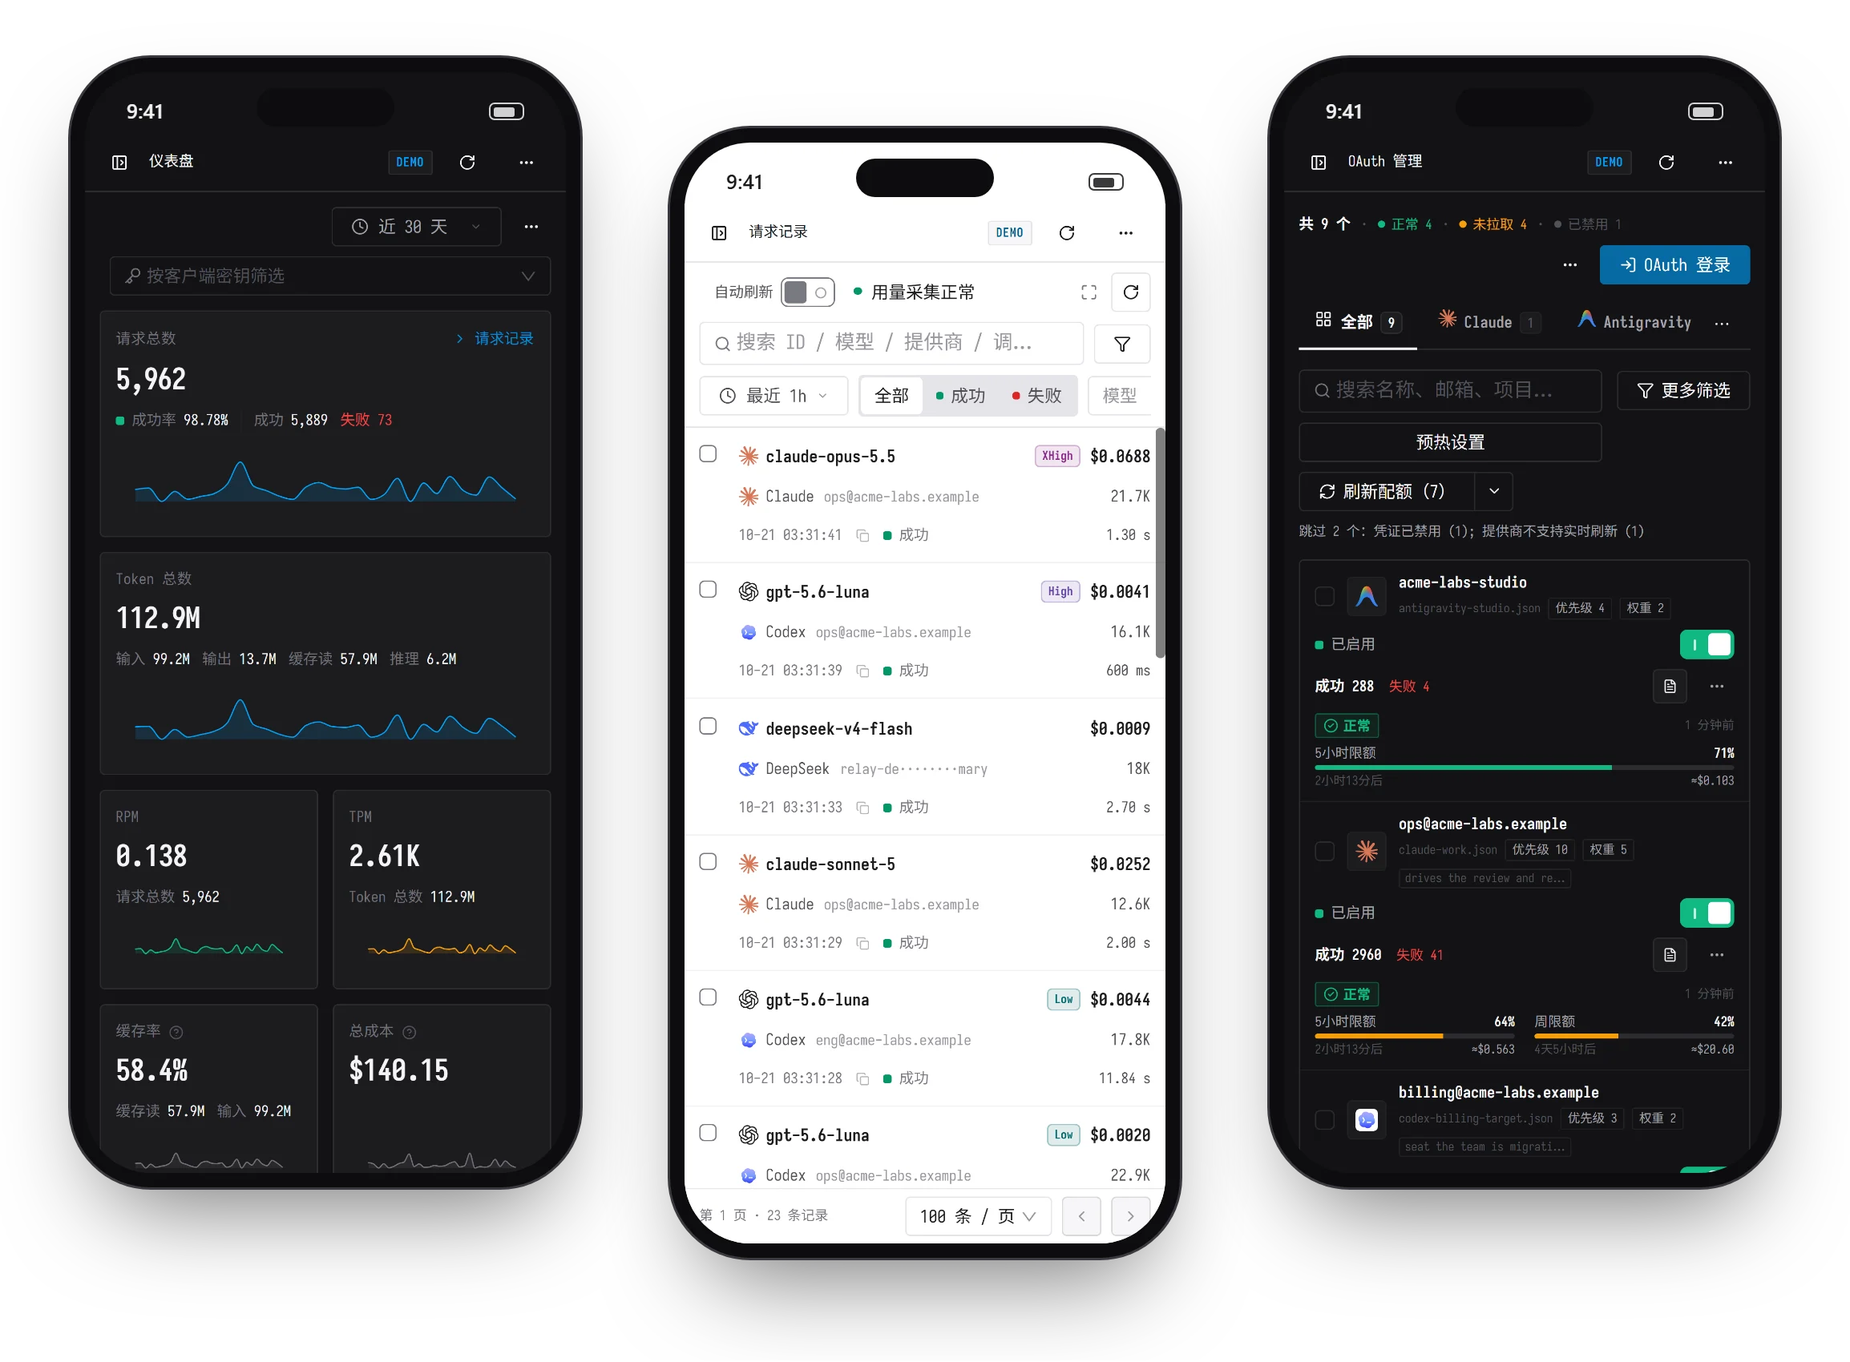
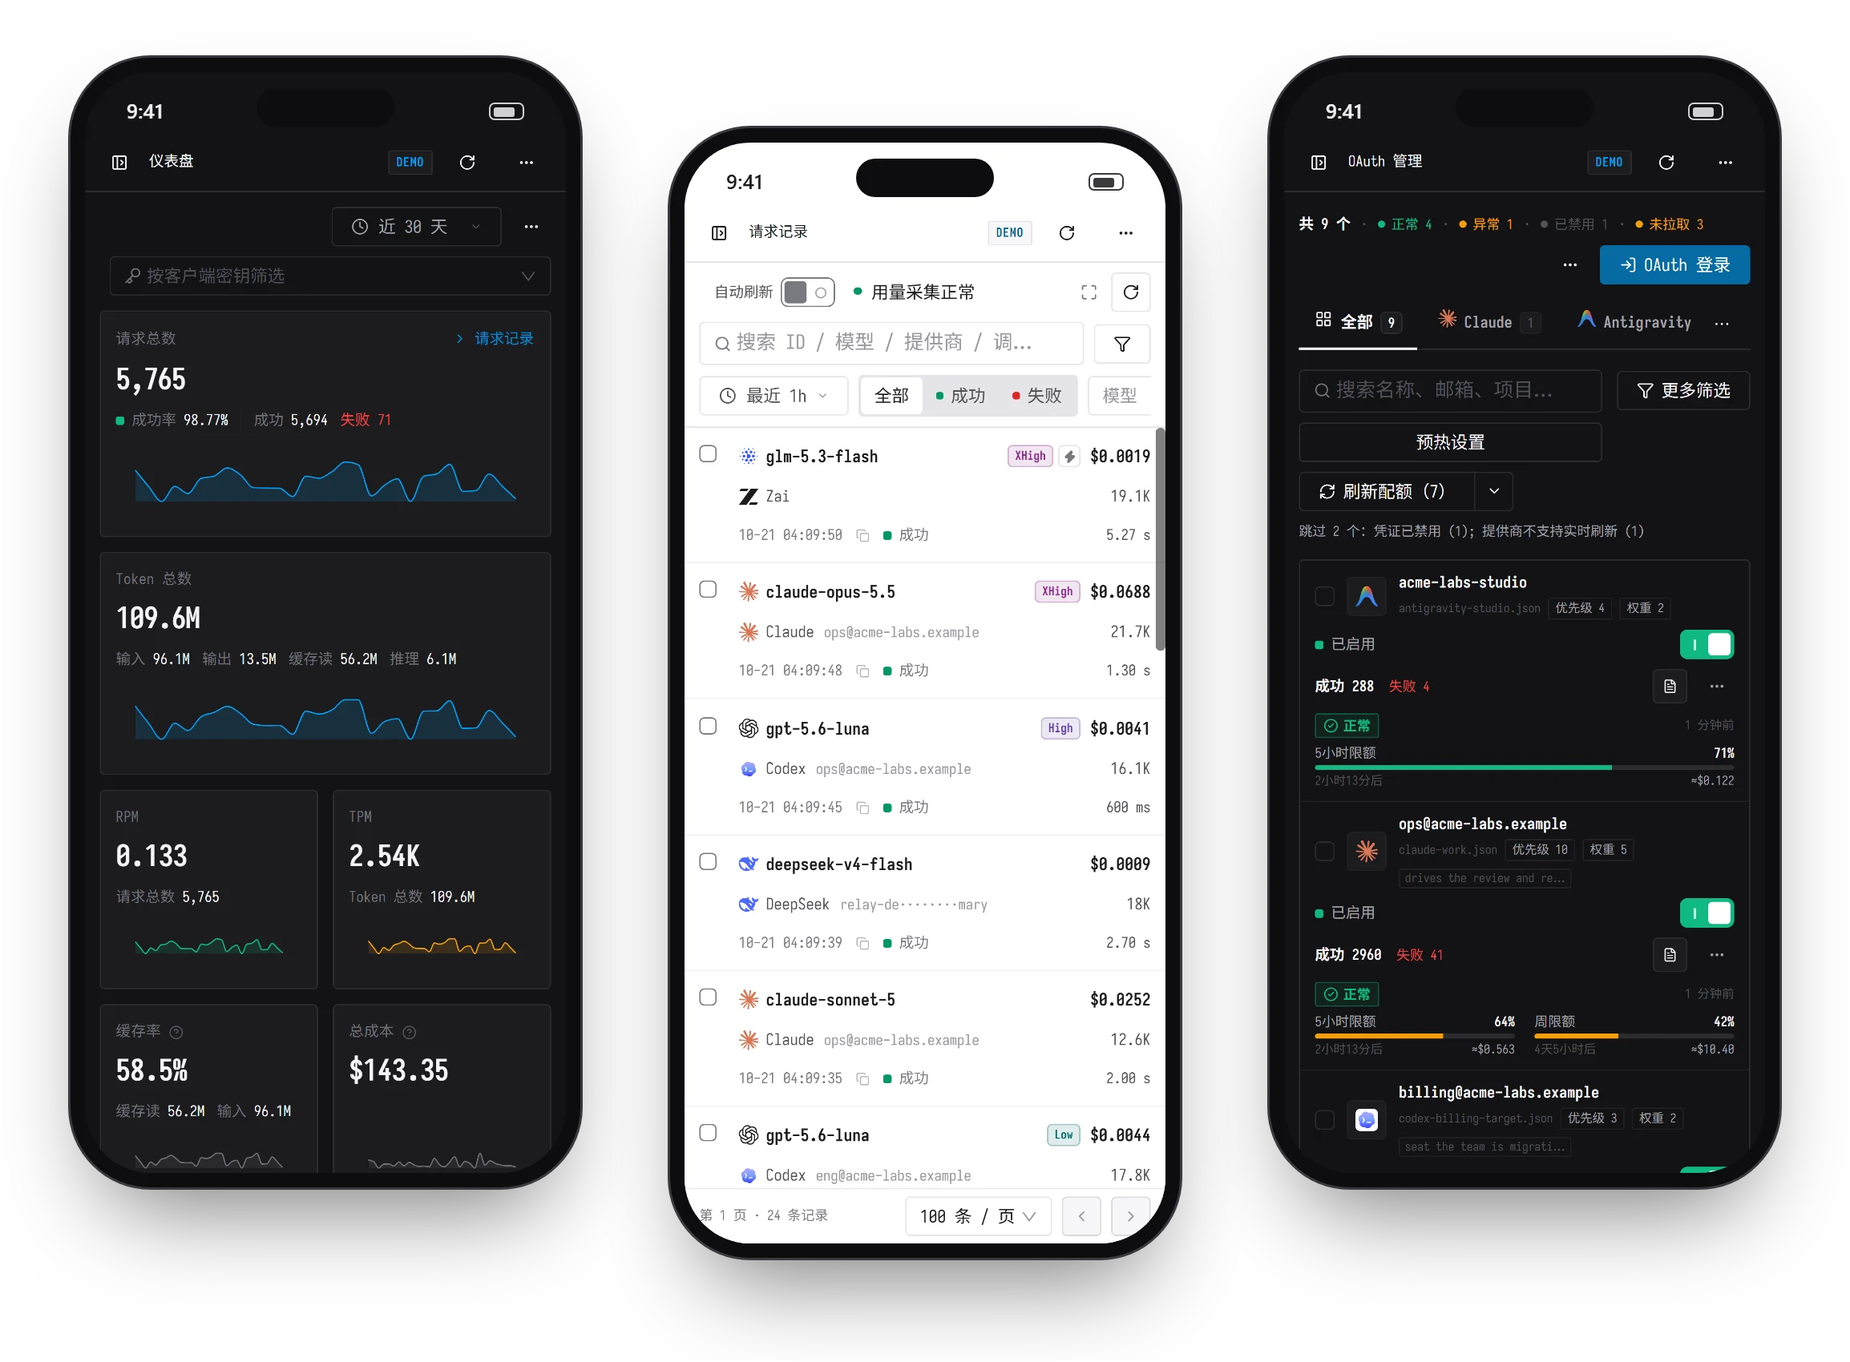
fix(quota): preserve serving counts and explain refresh failures

diff --git a/web/tests/credential-quota.component.test.tsx b/web/tests/credential-quota.component.test.tsx
@@ -10,6 +10,7 @@ import {
 import { buildCredentialQuotaBoard, credentialQuotaRefreshTargets } from '../src/components/dashboard/credentialQuotaLogic';
 import { CredentialQuotaBody } from '../src/pages/quota/CredentialQuotaBody';
 import { CompactQuotaView } from '../src/pages/quota/CompactQuotaView';
+import { OAuthCredentialRecord } from '../src/pages/oauthManagement/OAuthCredentialRecord';
 import { buildOAuthWorkspaceProjection, countWorkspaceQuotaStatuses } from '../src/pages/oauthManagement/oauthWorkspaceLogic';
 import { quotaFreshnessMS, resolveQuotaStatus } from '../src/utils/quotaStatus';
 import type { ManagementAuthFile } from '../src/types/managementAuthFile';
@@ -69,10 +70,43 @@ function QuotaSurface(props: Partial<CredentialQuotaPanelProps>) {
 const panelState = () => screen.getByTestId('dashboard-credential-quota').getAttribute('data-quota-panel-state');
 
 beforeEach(() => {
+  vi.stubGlobal('ResizeObserver', class { observe() {} unobserve() {} disconnect() {} });
   window.localStorage.setItem('omc-lang', 'en');
 });
 
 describe('credential quota board', () => {
+  it.each([{ unavailable: true }, { status: 'error' }])('excludes CPA file problems from normal counts: %j', (problem) => {
+    const entry = file('unavailable', problem);
+    const item = quota(entry.name, [quotaWindow('five_hour', 80, 3)]);
+    const record = buildOAuthWorkspaceProjection([entry], [item], [], [], [], NOW_MS).records[0];
+    expect(countWorkspaceQuotaStatuses([record], NOW_MS)).toEqual({ error: 1 });
+    render(<I18nProvider><OAuthCredentialRecord file={entry} displayProvider="codex" identityKey="unavailable" selected={false} busy={false} canTargetFile={false} onSelect={vi.fn()} onToggle={vi.fn()} onDownload={vi.fn()} onDelete={vi.fn()} onEdit={vi.fn()} onShowModels={vi.fn()} onShowDetails={vi.fn()} /></I18nProvider>);
+    expect(screen.getByText('Problems')).toBeTruthy();
+  });
+
+  it('keeps serving credentials and their retained windows when scheduling leaves readings stale', () => {
+    const items = [
+      quota('stale', [quotaWindow('five_hour', 80, 3)], { observed_at_ms: NOW_MS - 12 * HOUR_MS }),
+      quota('failed', [quotaWindow('five_hour', 70, 3)], { last_refresh: { outcome: 'failed', attempted_at_ms: NOW_MS, reason: 'timeout' } }),
+      quota('limited', [quotaWindow('five_hour', 60, 3)], { last_refresh: { outcome: 'rate_limited', attempted_at_ms: NOW_MS } }),
+    ];
+    const files = items.map((item) => file(item.auth_index));
+    expect(buildCredentialQuotaBoard(files, items, NOW_MS)).toMatchObject({ servingCount: 3, blockedCount: 0 });
+    const { container } = render(<QuotaSurface files={files} quotas={items} />);
+    expect(screen.getAllByRole('meter').map((meter) => meter.getAttribute('aria-valuenow'))).toEqual(['70', '60', '80']);
+    expect(screen.getByText('Data stale')).toBeTruthy();
+    expect(screen.getByText(/Refresh failed.*Request timed out/)).toBeTruthy();
+    expect(container.querySelectorAll('[data-quota-reading-trusted="false"]')).toHaveLength(3);
+    expect(buildCredentialQuotaBoard(files.map((entry) => ({ ...entry, unavailable: true })), items, NOW_MS).servingCount).toBe(0);
+  });
+
+  it('shows a credential-specific non-HTTP failure in its row and tooltip', async () => {
+    const item = quota('timeout', [], { last_refresh: { outcome: 'failed', attempted_at_ms: NOW_MS, reason: 'timeout' } });
+    render(<I18nProvider><CompactQuotaView item={item} nowMS={NOW_MS} /></I18nProvider>);
+    const tag = screen.getByText('Refresh failed · Request timed out');
+    fireEvent.mouseOver(tag);
+    expect((await screen.findByRole('tooltip')).textContent).toBe('Request timed out');
+  });
   it('shares latest-attempt and freshness status between rows, counts and dashboard', () => {
     const oldMS = NOW_MS - 12 * HOUR_MS;
     const items = [
@@ -90,7 +124,7 @@ describe('credential quota board', () => {
     expect(buildCredentialQuotaBoard(files, items, NOW_MS).rows.map((row) => row.state)).toEqual(['refresh_failed', 'rate_limited', 'stale', 'healthy']);
     const { container } = render(<I18nProvider>{items.map((item) => <CompactQuotaView key={item.auth_index} item={item} nowMS={NOW_MS} />)}</I18nProvider>);
     const failed = within(container.querySelector('[data-quota-body="failed"]') as HTMLElement);
-    expect(failed.getByText('Refresh failed')).toBeTruthy();
+    expect(failed.getByText('Refresh failed · HTTP 483')).toBeTruthy();
     expect(failed.queryByText('Normal')).toBeNull();
     expect(failed.getByText(/HTTP 483.*Last successful reading/)).toBeTruthy();
     expect(screen.getByText('Rate limited')).toBeTruthy();

diff --git a/web/src/components/dashboard/credentialQuotaLogic.ts b/web/src/components/dashboard/credentialQuotaLogic.ts
@@ -18,7 +18,7 @@ import { resolveQuotaStatus } from '../../utils/quotaStatus';
 export type CredentialQuotaState = 'refresh_failed' | 'rate_limited' | 'stale' | 'reauth' | 'cooldown' | 'exhausted' | 'problem' | 'low' | 'healthy' | 'unread';
 
 const STATE_ORDER: CredentialQuotaState[] = ['refresh_failed', 'rate_limited', 'stale', 'reauth', 'cooldown', 'exhausted', 'problem', 'low', 'healthy', 'unread'];
-const BLOCKED_STATES = new Set<CredentialQuotaState>(['refresh_failed', 'rate_limited', 'stale', 'reauth', 'cooldown', 'exhausted', 'problem']);
+const BLOCKED_STATES = new Set<CredentialQuotaState>(['reauth', 'cooldown', 'exhausted', 'problem']);
 
 /** The remaining shares at which a window stops reading as plentiful, and then as nearly spent. */
 export const QUOTA_AMPLE_PERCENT = 70;
@@ -88,6 +88,8 @@ export interface CredentialQuotaRow {
   primary: string;
   provider: string;
   state: CredentialQuotaState;
+  readingStatus?: 'refresh_failed' | 'rate_limited' | 'stale';
+  lastRefresh?: QuotaItem['last_refresh'];
   /** The credential's own model family, shortest limit first; at most two. */
   windows: QuotaWindow[];
   /** The tightest of `windows`, which is the limit that stops the credential first. */
@@ -113,9 +115,10 @@ export function isCredentialQuotaBlocked(state: CredentialQuotaState): boolean {
 
 function resolveState(file: ManagementAuthFile, item: QuotaItem | undefined, remainingPercent: number | undefined, nowMS: number): CredentialQuotaState {
   const status = item ? resolveQuotaStatus(item, nowMS) : 'idle';
-  if (status === 'refresh_failed' || status === 'rate_limited' || status === 'stale') return status;
+  if (isUnavailable(file)) return 'problem';
   if (item?.recommendation?.action === 'reauth' || item?.recommendation?.status === 'needs_reauth') return 'reauth';
   if (item?.active_cooldown?.is_active || item?.status === 'cooldown') return 'cooldown';
+  if (status === 'refresh_failed' || status === 'rate_limited' || status === 'stale') return status;
   if (item?.status === 'exhausted' || remainingPercent === 0) return 'exhausted';
   if (isUnavailable(file) || item?.status === 'error') return 'problem';
   if (remainingPercent == null) return 'unread';
@@ -177,6 +180,9 @@ export function buildCredentialQuotaBoard(files: ManagementAuthFile[], quotas: Q
       primary: (file.email || file.project_id || file.name || '').trim() || '—',
       provider: (file.type || file.provider || 'unknown').trim().toLowerCase(),
       state,
+      readingStatus: item && ['refresh_failed', 'rate_limited', 'stale'].includes(resolveQuotaStatus(item, nowMS))
+        ? resolveQuotaStatus(item, nowMS) as CredentialQuotaRow['readingStatus'] : undefined,
+      lastRefresh: item?.last_refresh,
       windows,
       bindingWindow,
       remainingPercent,

diff --git a/web/src/components/dashboard/CredentialQuota.tsx b/web/src/components/dashboard/CredentialQuota.tsx
@@ -19,6 +19,7 @@ import {
 } from '../icons';
 import type { ManagementAuthFile } from '../../types/managementAuthFile';
 import type { QuotaItem, QuotaWindow } from '../../types/quota';
+import { quotaRefreshReasonLabel } from '../../utils/quotaStatus';
 import {
   quotaRefreshFailureReason,
   quotaRefreshRateLimitReason,
@@ -61,9 +62,6 @@ const WINDOW_LABEL_KEYS: Record<QuotaWindowPeriod, string> = {
 
 /** The states whose row says what is wrong instead of drawing the windows it cannot use. */
 const STATUS_ROW_STATES: Partial<Record<CredentialQuotaState, { labelKey: string; Icon: React.ComponentType<{ className?: string }> }>> = {
-  refresh_failed: { labelKey: 'quota.status_refresh_failed', Icon: CloseCircleOutlined },
-  rate_limited: { labelKey: 'quota.status_rate_limited', Icon: PauseCircleOutlined },
-  stale: { labelKey: 'quota.status_data_stale', Icon: ClockCircleOutlined },
   reauth: { labelKey: 'dash.quota.state_reauth', Icon: KeyOutlined },
   cooldown: { labelKey: 'dash.quota.state_cooldown', Icon: PauseCircleOutlined },
   problem: { labelKey: 'dash.quota.state_problem', Icon: CloseCircleOutlined },
@@ -115,6 +113,10 @@ const QuotaWindowMeter: React.FC<{ window: QuotaWindow }> = ({ window }) => {
 const CredentialQuotaRowView: React.FC<{ row: CredentialQuotaRow; nowMS: number }> = ({ row, nowMS }) => {
   const t = useT();
   const status = STATUS_ROW_STATES[row.state];
+  const readingLabel = row.readingStatus === 'refresh_failed'
+    ? `${t('quota.status_refresh_failed')} · ${quotaRefreshReasonLabel(row.lastRefresh, t)}`
+    : row.readingStatus === 'rate_limited' ? t('quota.status_rate_limited')
+      : row.readingStatus === 'stale' ? t('quota.status_data_stale') : undefined;
   // A blocked row counts down to when it serves again; a serving one to when its tightest window
   // refills. An instant the provider did not state exactly keeps its `~`.
   const reset = row.bindingWindow?.reset_at_ms;
@@ -142,7 +144,10 @@ const CredentialQuotaRowView: React.FC<{ row: CredentialQuotaRow; nowMS: number 
         </span>
       ) : (
         <span className="quota-row-windows">
+          {readingLabel && <span className="quota-reading-warning" title={[readingLabel, row.lastRefresh?.reason_summary].filter(Boolean).join(' · ')}>{readingLabel}</span>}
+          <span className="quota-window-readings" data-quota-reading-trusted={row.readingStatus ? 'false' : 'true'}>
           {row.windows.map((window) => <QuotaWindowMeter key={window.id || window.label} window={window} />)}
+          </span>
         </span>
       )}
       <span className="quota-row-when">

diff --git a/web/src/pages/quota/quotaStatusTag.tsx b/web/src/pages/quota/quotaStatusTag.tsx
@@ -10,7 +10,7 @@ import type { TFunc } from '../../i18n';
 import type { QuotaItem } from '../../types/quota';
 import { resolveQuotaCooldownTooltip } from './quotaCooldown';
 import { Tag } from '../../components/common/Tag';
-import { resolveQuotaStatus } from '../../utils/quotaStatus';
+import { quotaRefreshReasonLabel, resolveQuotaStatus } from '../../utils/quotaStatus';
 import { formatShortDateTime } from './quotaFormat';
 
 /**
@@ -23,8 +23,9 @@ export function quotaStatusTag(item: QuotaItem, t: TFunc, nowMS = Date.now()): R
   const status = resolveQuotaStatus(item, nowMS);
   if (status === 'disabled') return <Tag>{t('af.disabled')}</Tag>;
   if (status === 'refresh_failed') {
-    const reason = item.last_refresh?.http_status ? `HTTP ${item.last_refresh.http_status}` : t('quota.refresh_failed_reason');
-    return <Tooltip title={reason}><Tag tone="danger">{t('quota.status_refresh_failed')}</Tag></Tooltip>;
+    const reason = quotaRefreshReasonLabel(item.last_refresh, t);
+    const detail = [reason, item.last_refresh?.reason_summary].filter(Boolean).join(' · ');
+    return <Tooltip title={detail}><Tag tone="danger">{t('quota.status_refresh_failed')} · {reason}</Tag></Tooltip>;
   }
   if (status === 'rate_limited') {
     const retry = item.last_refresh?.retry_at_ms;

diff --git a/web/src/pages/oauthManagement/oauthWorkspaceLogic.ts b/web/src/pages/oauthManagement/oauthWorkspaceLogic.ts
@@ -1,4 +1,4 @@
-import { matchesStatusFilter, providerOf, type AuthFileSortKey, type AuthFileStatusFilter } from '../../components/authFiles/authFileLogic';
+import { isAuthFileDisabled, isAuthFileProblem, matchesStatusFilter, providerOf, type AuthFileSortKey, type AuthFileStatusFilter } from '../../components/authFiles/authFileLogic';
 import { getCredentialProviderMetadata } from '../../components/common/providerMetadata';
 import type { ManagementAuthFile } from '../../types/managementAuthFile';
 import type { PluginItem } from '../../types/plugin';
@@ -614,7 +614,8 @@ export function workspaceProviderCounts(records: OAuthWorkspaceRecord[]): Record
 export function countWorkspaceQuotaStatuses(records: OAuthWorkspaceRecord[], nowMS = Date.now()): Partial<Record<QuotaDisplayStatus, number>> {
   const counts: Partial<Record<QuotaDisplayStatus, number>> = {};
   for (const record of records) {
-    const status = record.file.disabled || record.file.status === 'disabled' ? 'disabled'
+    const status = isAuthFileDisabled(record.file) ? 'disabled'
+      : isAuthFileProblem(record.file) ? 'error'
       : record.quota ? resolveQuotaStatus(record.quota, nowMS) : 'idle';
     counts[status] = (counts[status] ?? 0) + 1;
   }

diff --git a/web/src/pages/quota/CompactQuotaView.tsx b/web/src/pages/quota/CompactQuotaView.tsx
@@ -25,6 +25,7 @@ import { Meter } from '../../components/common/Meter';
 import { verifiedQuotaCredits } from '../../utils/quotaCredits';
 import { claudeResetGrantSummary } from '../../utils/quotaResets';
 import { ResetAdviceTag } from './ResetAdviceView';
+import { quotaRefreshReasonLabel } from '../../utils/quotaStatus';
 
 interface CompactQuotaViewProps {
   item: QuotaItem;
@@ -116,7 +117,7 @@ export const CompactQuotaView: React.FC<CompactQuotaViewProps> = ({
       </div>
         {item.last_refresh && item.last_refresh.outcome !== 'success' && (
           <span className={styles['refresh-detail']}>
-            {item.last_refresh.http_status ? `HTTP ${item.last_refresh.http_status} · ` : ''}
+            {quotaRefreshReasonLabel(item.last_refresh, t)} ·
             {item.last_refresh.retry_at_ms ? `${t('quota.refresh_retry_at', { time: formatShortDateTime(item.last_refresh.retry_at_ms) })} · ` : ''}
             {t('quota.last_success', { time: item.last_success_at_ms ? formatShortDateTime(item.last_success_at_ms) : t('advice.unknown') })}
           </span>

diff --git a/web/src/i18n/index.tsx b/web/src/i18n/index.tsx
@@ -3193,6 +3193,11 @@ const DICT: Record<string, [string, string]> = {
   'quota.status_cooldown': ['CPA 冷却中', 'CPA Cooldown'],
   'quota.status_data_stale': ['数据过期', 'Data stale'],
   'quota.status_refresh_failed': ['刷新失败', 'Refresh failed'],
+  'quota.refresh_reason_timeout': ['请求超时', 'Request timed out'],
+  'quota.refresh_reason_network': ['网络连接失败', 'Network connection failed'],
+  'quota.refresh_reason_auth': ['身份验证失败', 'Authentication failed'],
+  'quota.refresh_reason_parse': ['响应解析失败', 'Response could not be parsed'],
+  'quota.refresh_reason_unknown': ['未知原因', 'Unknown cause'],
   'quota.status_rate_limited': ['已限流', 'Rate limited'],
   'quota.refresh_failed_reason': ['最近一次配额读取失败', 'The latest quota read failed'],
   'quota.refresh_retry_at': ['可重试时间：{time}', 'Retry at {time}'],

diff --git a/web/src/utils/quotaStatus.ts b/web/src/utils/quotaStatus.ts
@@ -1,4 +1,16 @@
 import type { QuotaItem } from '../types/quota';
+import type { TFunc } from '../i18n';
+
+export function quotaRefreshReasonLabel(attempt: QuotaItem['last_refresh'], t: TFunc): string {
+  if (attempt?.http_status) return `HTTP ${attempt.http_status}`;
+  switch (attempt?.reason) {
+    case 'timeout': return t('quota.refresh_reason_timeout');
+    case 'network': return t('quota.refresh_reason_network');
+    case 'auth': return t('quota.refresh_reason_auth');
+    case 'parse': return t('quota.refresh_reason_parse');
+    default: return t('quota.refresh_reason_unknown');
+  }
+}
 
 // Two idle scheduler cycles allow a delayed collection without trusting an old
 // reading indefinitely. Ollama collects every 15 minutes; CPA adaptive idle is

diff --git a/web/src/i18n/locales/ms.ts b/web/src/i18n/locales/ms.ts
@@ -2770,6 +2770,11 @@ export const MS: Readonly<Record<string, string>> = {
   "quota.status_cooldown": "Cooldown CPA",
   "quota.status_data_stale": "Data lapuk",
   "quota.status_refresh_failed": "Muat semula gagal",
+  "quota.refresh_reason_timeout": "Permintaan tamat masa",
+  "quota.refresh_reason_network": "Sambungan rangkaian gagal",
+  "quota.refresh_reason_auth": "Pengesahan gagal",
+  "quota.refresh_reason_parse": "Respons tidak dapat dihuraikan",
+  "quota.refresh_reason_unknown": "Punca tidak diketahui",
   "quota.status_rate_limited": "Dihadkan kadar",
   "quota.refresh_failed_reason": "Bacaan kuota terkini gagal",
   "quota.refresh_retry_at": "Cuba semula pada {time}",

diff --git a/web/src/i18n/locales/zh-Hant.ts b/web/src/i18n/locales/zh-Hant.ts
@@ -2770,6 +2770,11 @@ export const ZH_HANT: Readonly<Record<string, string>> = {
   "quota.status_cooldown": "CPA 冷卻中",
   "quota.status_data_stale": "資料過期",
   "quota.status_refresh_failed": "重新整理失敗",
+  "quota.refresh_reason_timeout": "請求逾時",
+  "quota.refresh_reason_network": "網路連線失敗",
+  "quota.refresh_reason_auth": "驗證失敗",
+  "quota.refresh_reason_parse": "回應解析失敗",
+  "quota.refresh_reason_unknown": "未知原因",
   "quota.status_rate_limited": "已限流",
   "quota.refresh_failed_reason": "最近一次配額讀取失敗",
   "quota.refresh_retry_at": "可重試時間：{time}",

diff --git a/web/src/components/dashboard/dashboard.css b/web/src/components/dashboard/dashboard.css
@@ -402,6 +402,11 @@
 .quota-row-name { grid-area: name; min-width: 0; overflow: hidden; text-overflow: ellipsis; white-space: nowrap; }
 .quota-row-windows {
   grid-area: reading;
+  min-width: 0;
+}
+.quota-reading-warning { display: block; color: var(--warn); font-size: var(--text-sm); overflow: hidden; text-overflow: ellipsis; white-space: nowrap; }
+.quota-window-readings[data-quota-reading-trusted="false"] .quota-window-fill { background: var(--muted); }
+.quota-window-readings {
   display: grid;
   grid-template-columns: repeat(2, minmax(0, 1fr));
   gap: 16px;

diff --git a/web/src/types/quota.ts b/web/src/types/quota.ts
@@ -165,7 +165,7 @@ export interface QuotaCapabilities {
 }
 
 export interface QuotaItem {
-  last_refresh?: { outcome: 'success' | 'failed' | 'rate_limited'; attempted_at_ms: number; http_status?: number; retry_at_ms?: number };
+  last_refresh?: { outcome: 'success' | 'failed' | 'rate_limited'; attempted_at_ms: number; http_status?: number; retry_at_ms?: number; reason?: 'timeout' | 'network' | 'auth' | 'http' | 'parse' | 'unknown'; reason_summary?: string };
   last_success_at_ms?: number;
   reset_advice?: ResetAdvice;
   auth_index: string;
